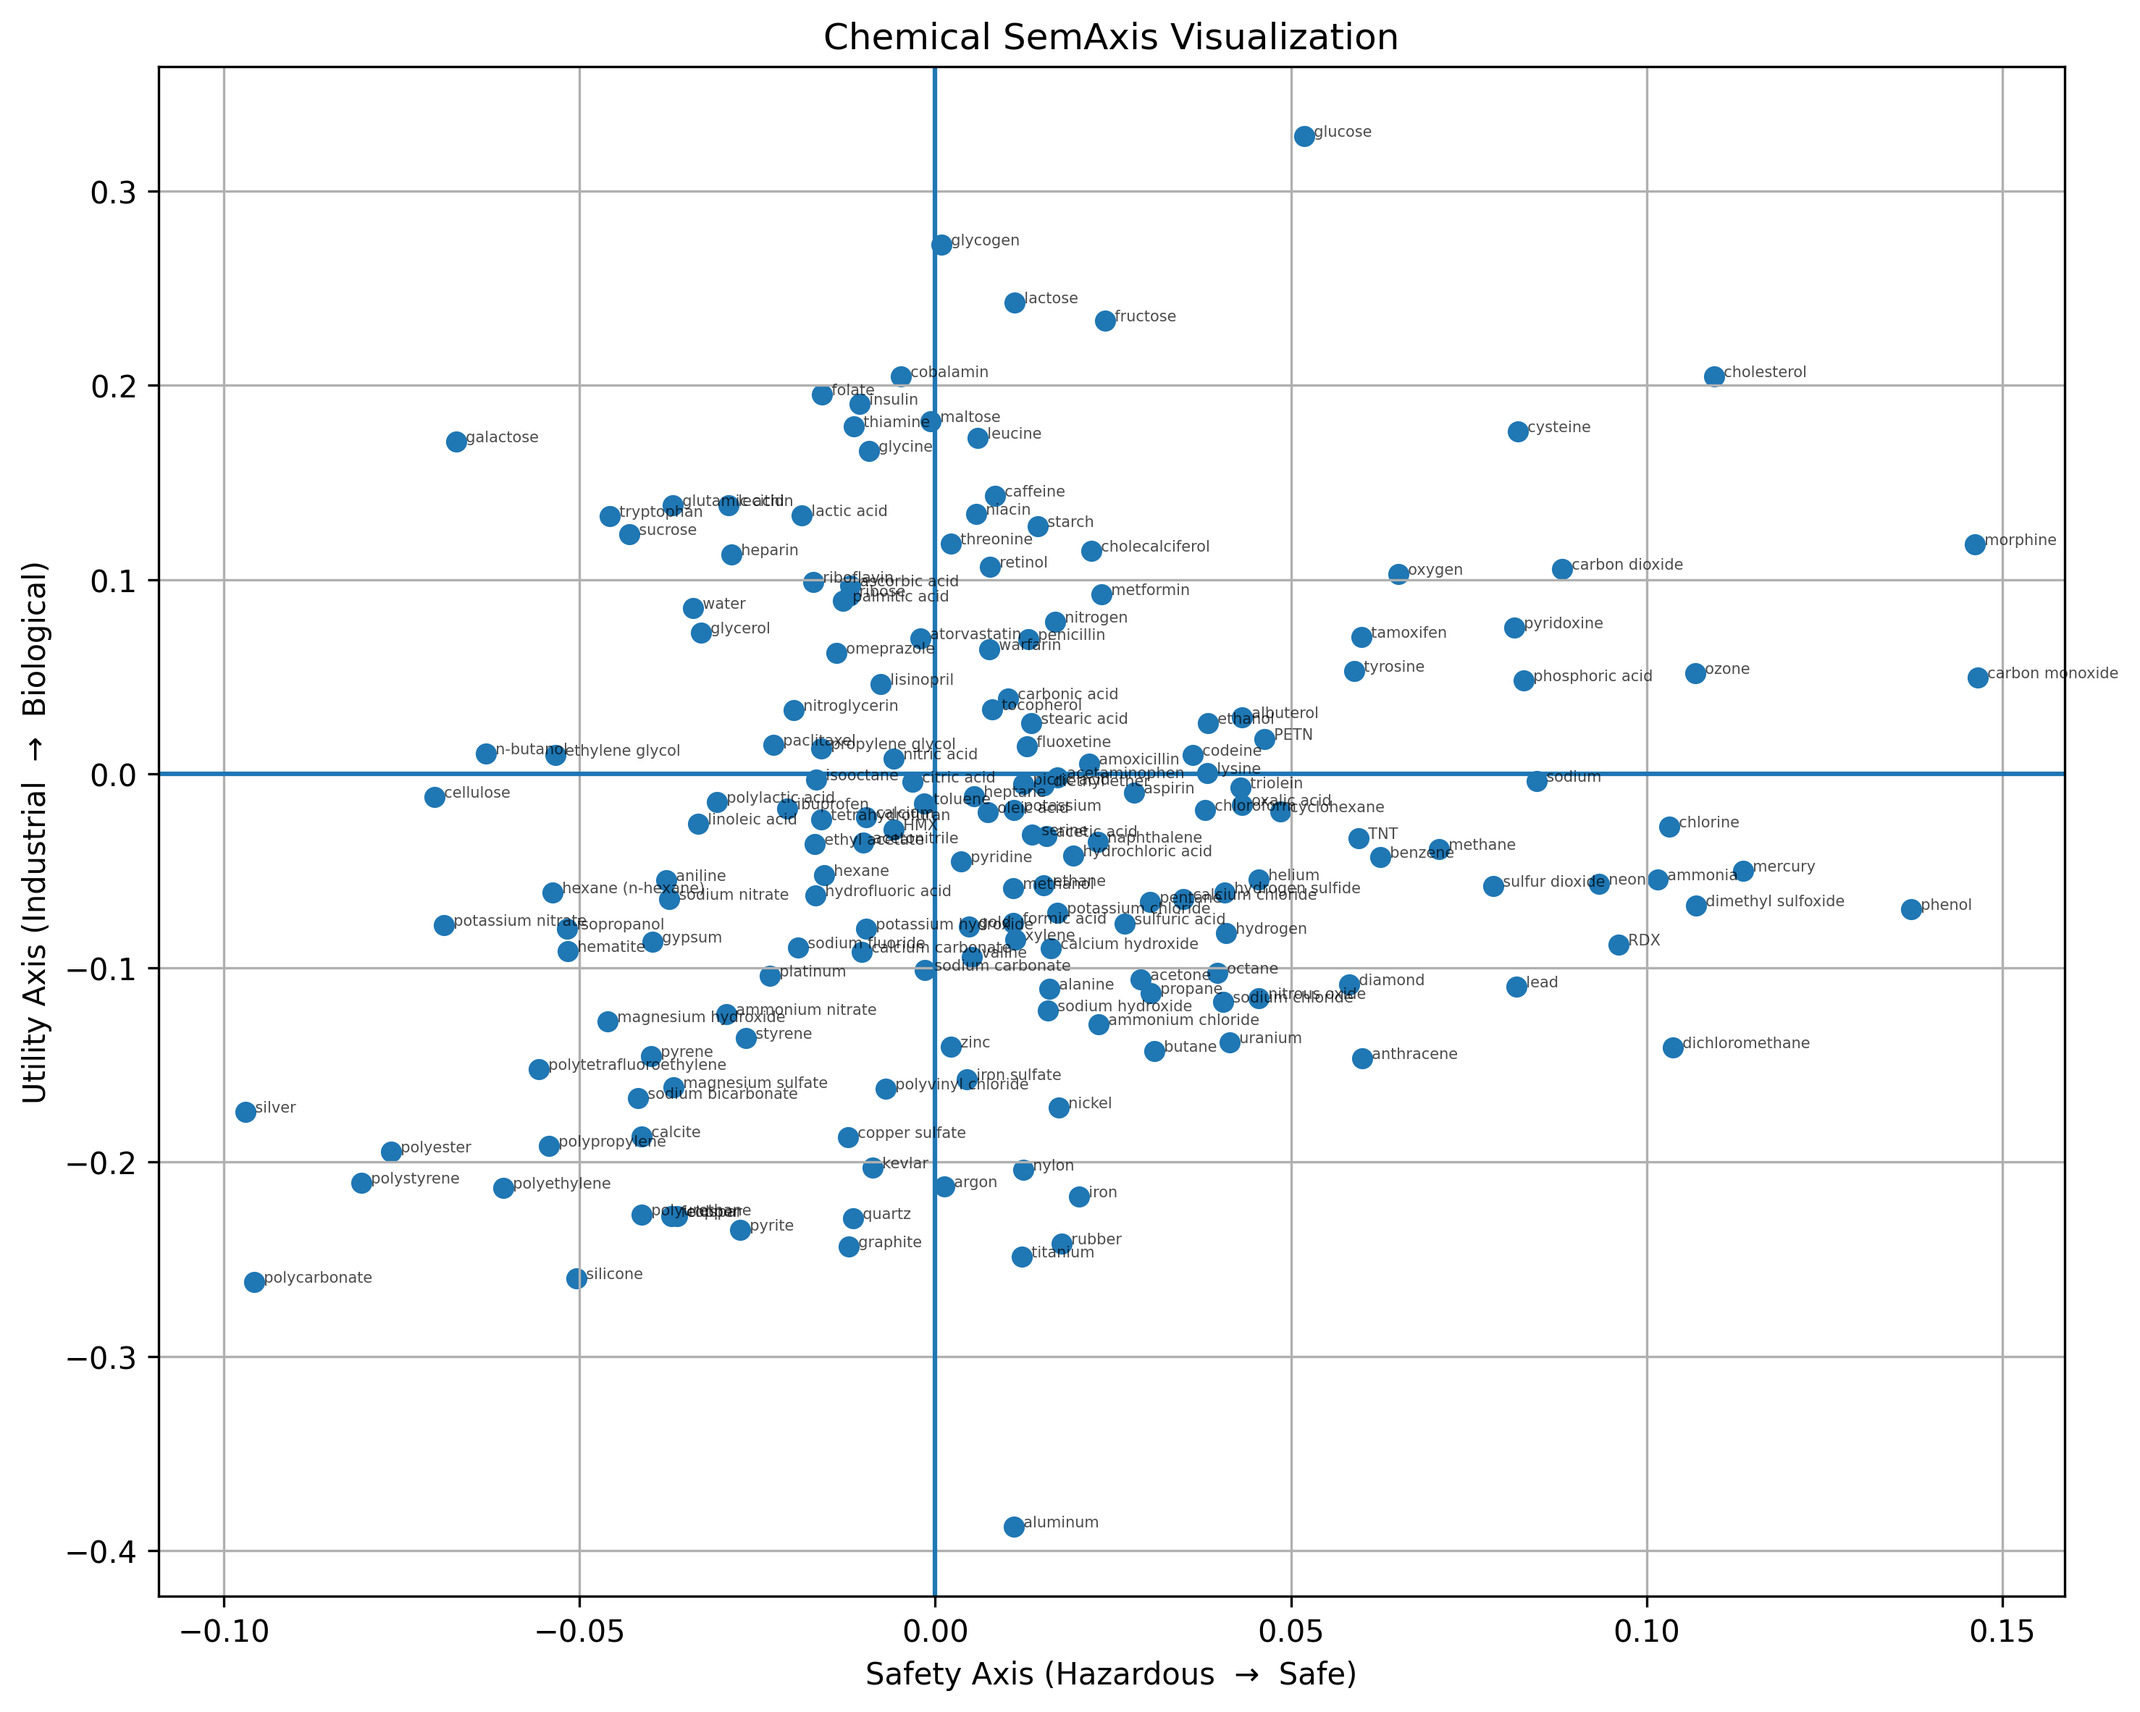
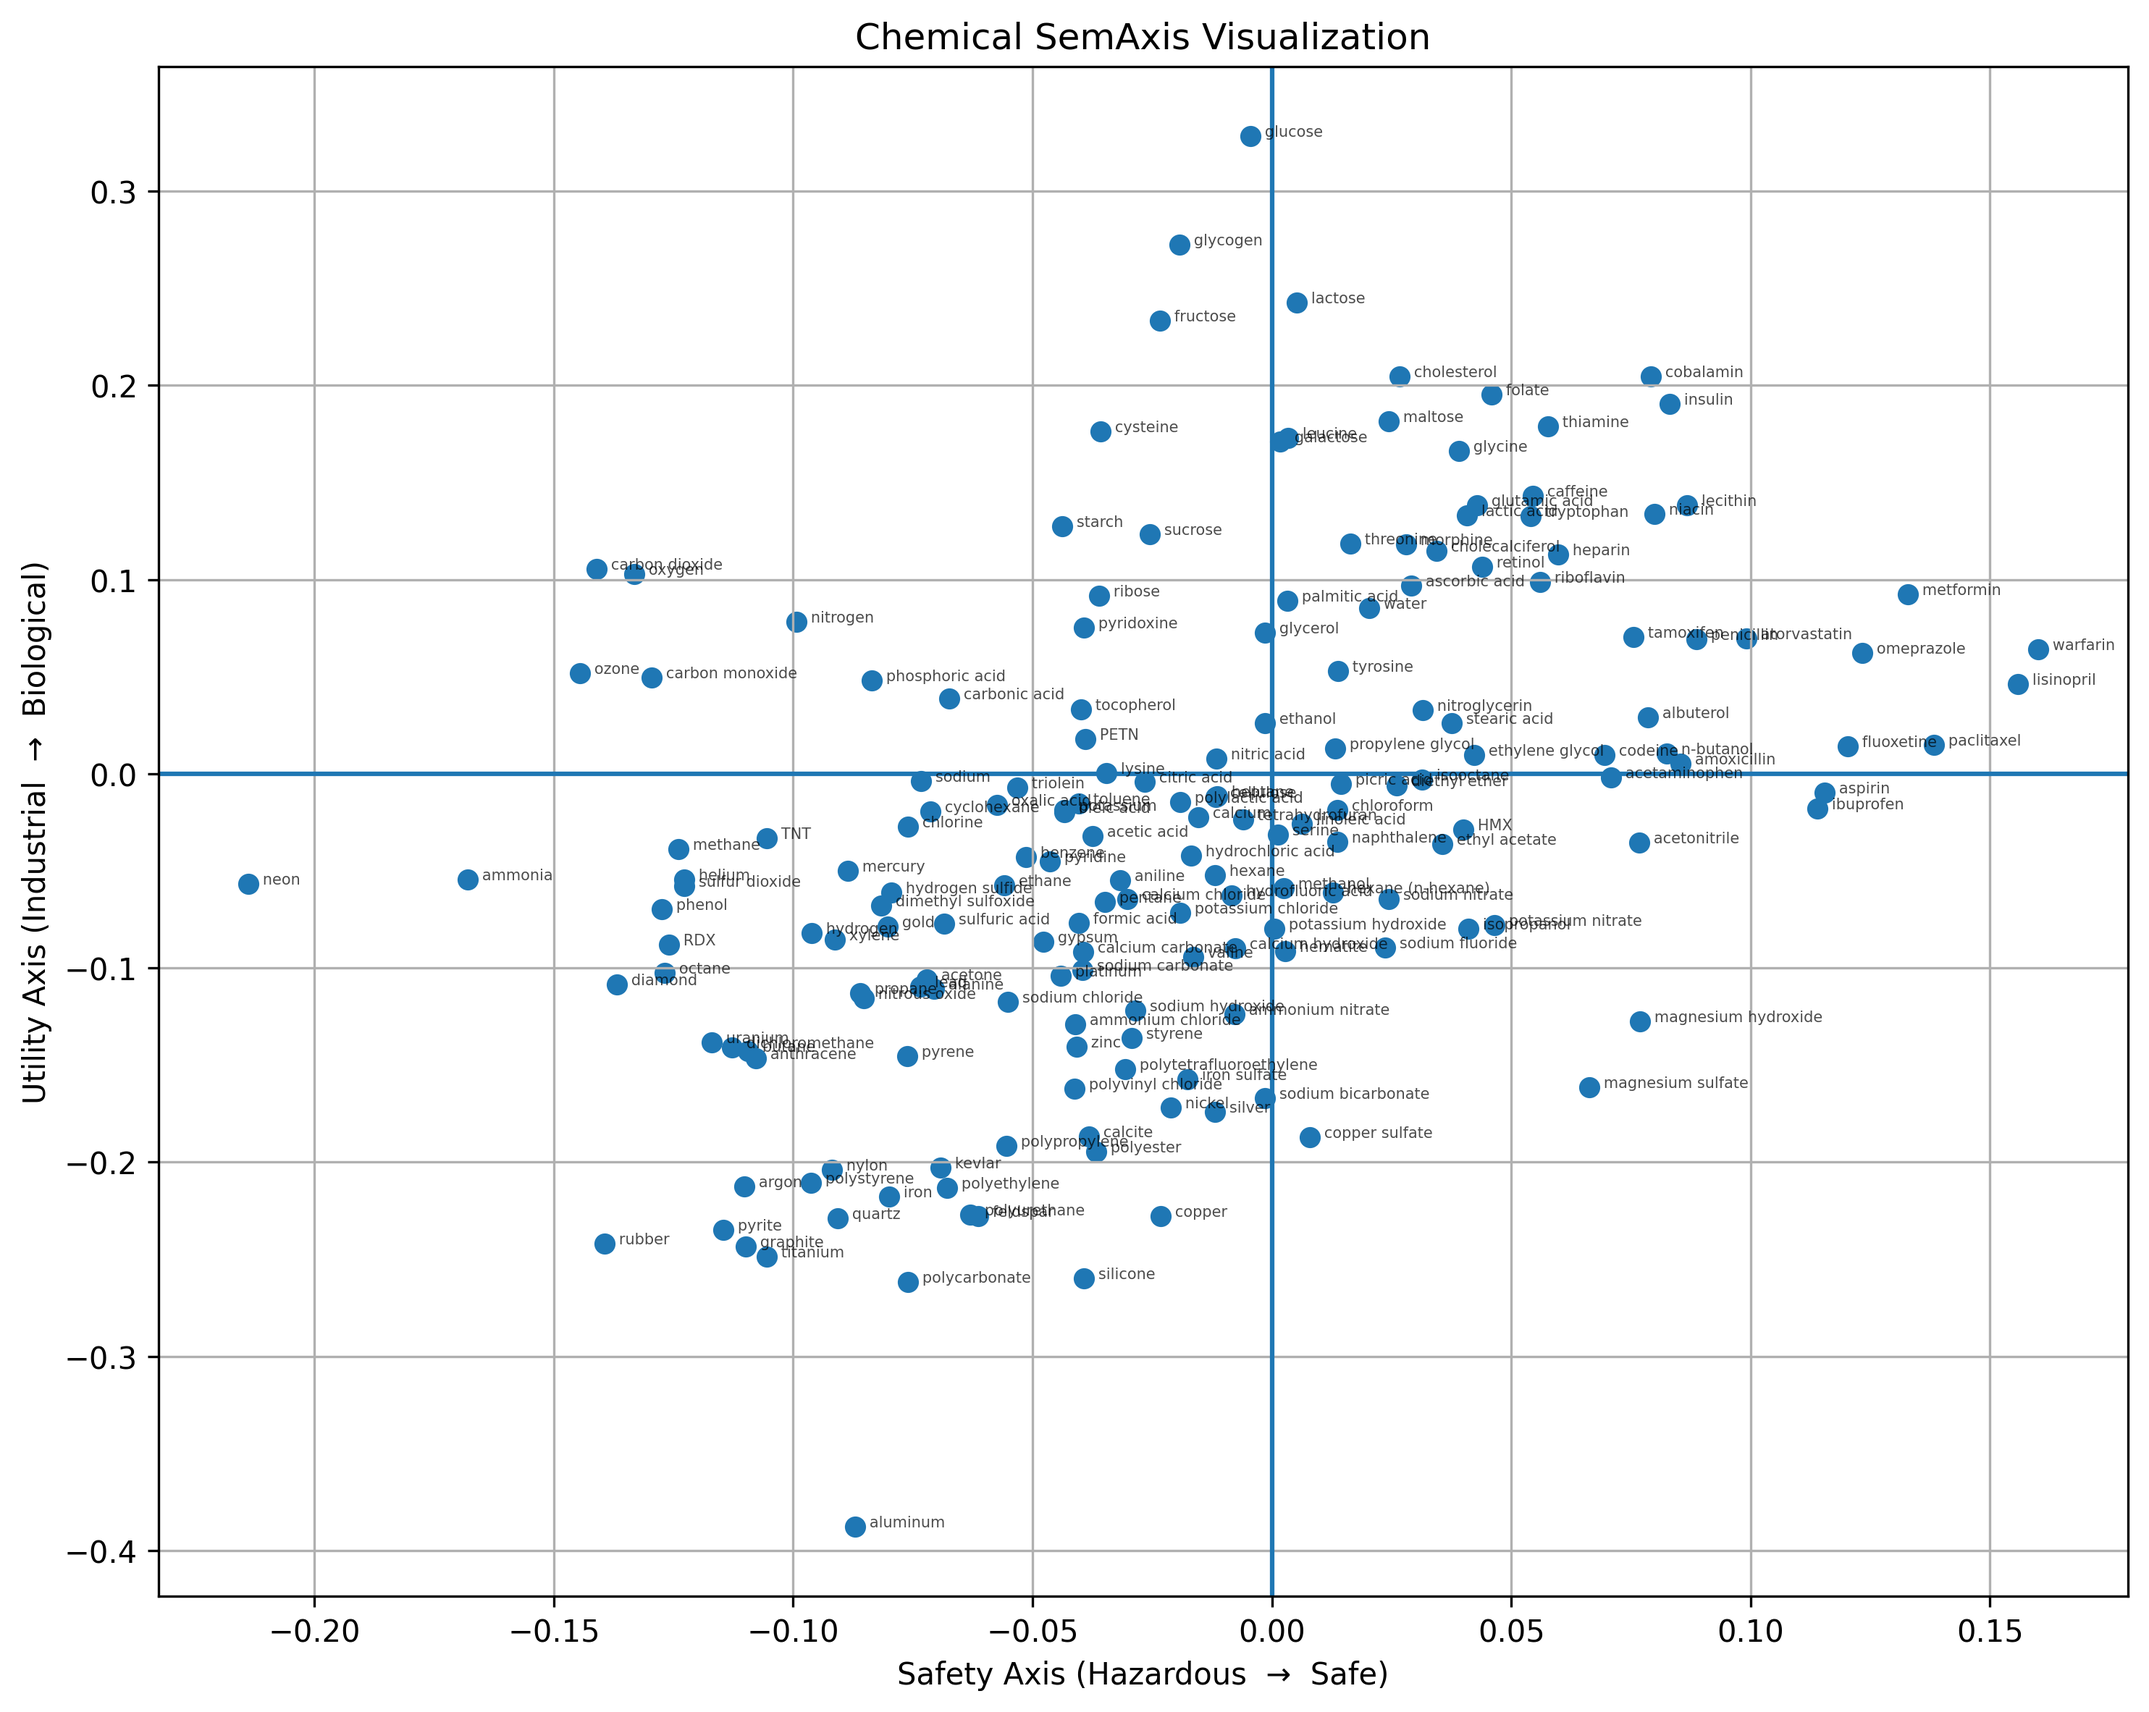
updated x axis labels to make semaxis plot more distributed

diff --git a/scripts/chemical_semaxis.py b/scripts/chemical_semaxis.py
@@ -43,20 +43,20 @@ def score_words(words, axis, embedding_model):
 
 # create first axis for safety of chemicals i.e. dangerous or safe
 axis1_pos = [
-    'Toxic',
-    'Poisonous',
-    'Lethal',
-    'Hazardous',
-    'Dangerous',
-    'Harmful'
+    'safe in small doses',
+    'medical',
+    'harmless',
+    'benign',
+    'low-risk',
 ]
+
 axis1_neg = [
-    'Safe',
-    'Harmless',
-    'Non-toxic',
-    'Benign',
-    'Edible',
-    'Nonhazardous'
+    'toxic',
+    'reactive',
+    'lethal',
+    'hazardous',
+    'dangerous',
+    'harmful',
 ]
 axis_safety = make_axis(axis1_pos, axis1_neg, model)
 
@@ -90,7 +90,7 @@ plt.scatter(df_scored["x"], df_scored["y"])
 
 # Label each point with the chemical name
 for i, txt in enumerate(df_scored["name"]):
-    plt.annotate('  ' + txt, (df_scored["x"][i], df_scored["y"][i]), fontsize=5, alpha=0.7)
+    plt.annotate('   ' + txt, (df_scored["x"][i], df_scored["y"][i]), fontsize=5, alpha=0.7)
 
 # Axis labels and title
 plt.xlabel("Safety Axis (Hazardous  →  Safe)")
@@ -113,5 +113,4 @@ os.makedirs(output_dir, exist_ok=True)
 plt.savefig(os.path.join(output_dir, "chemical_semaxis.png"), dpi=300, bbox_inches="tight")
 
 # Show plot
-plt.savefig('figures/semaxis.png')
 plt.show()
